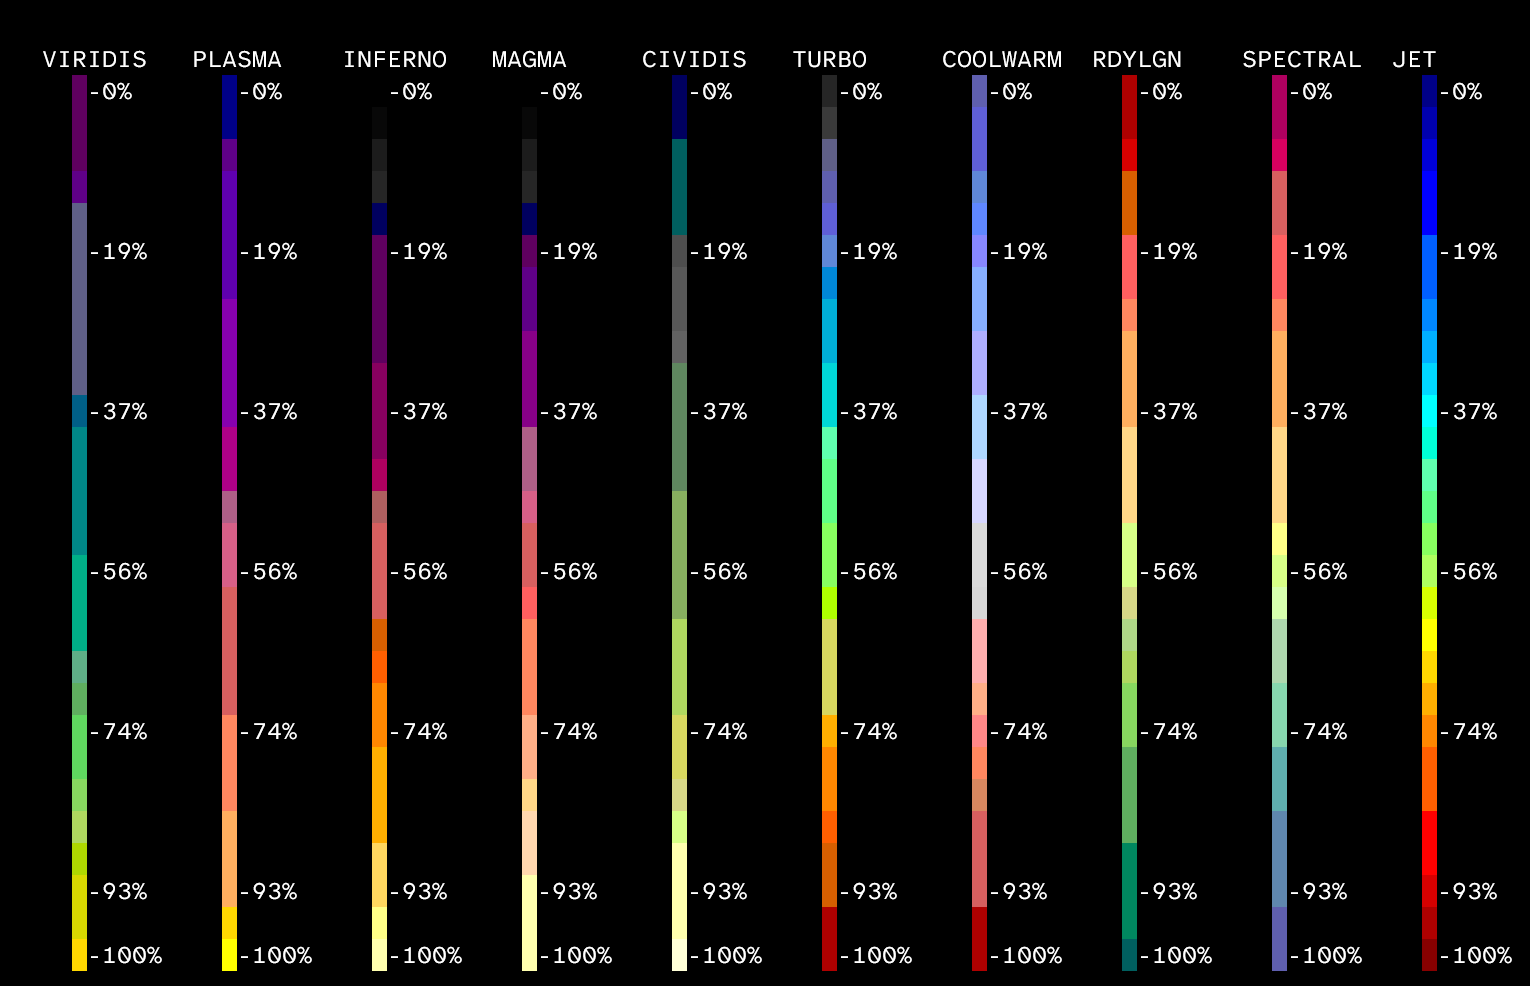
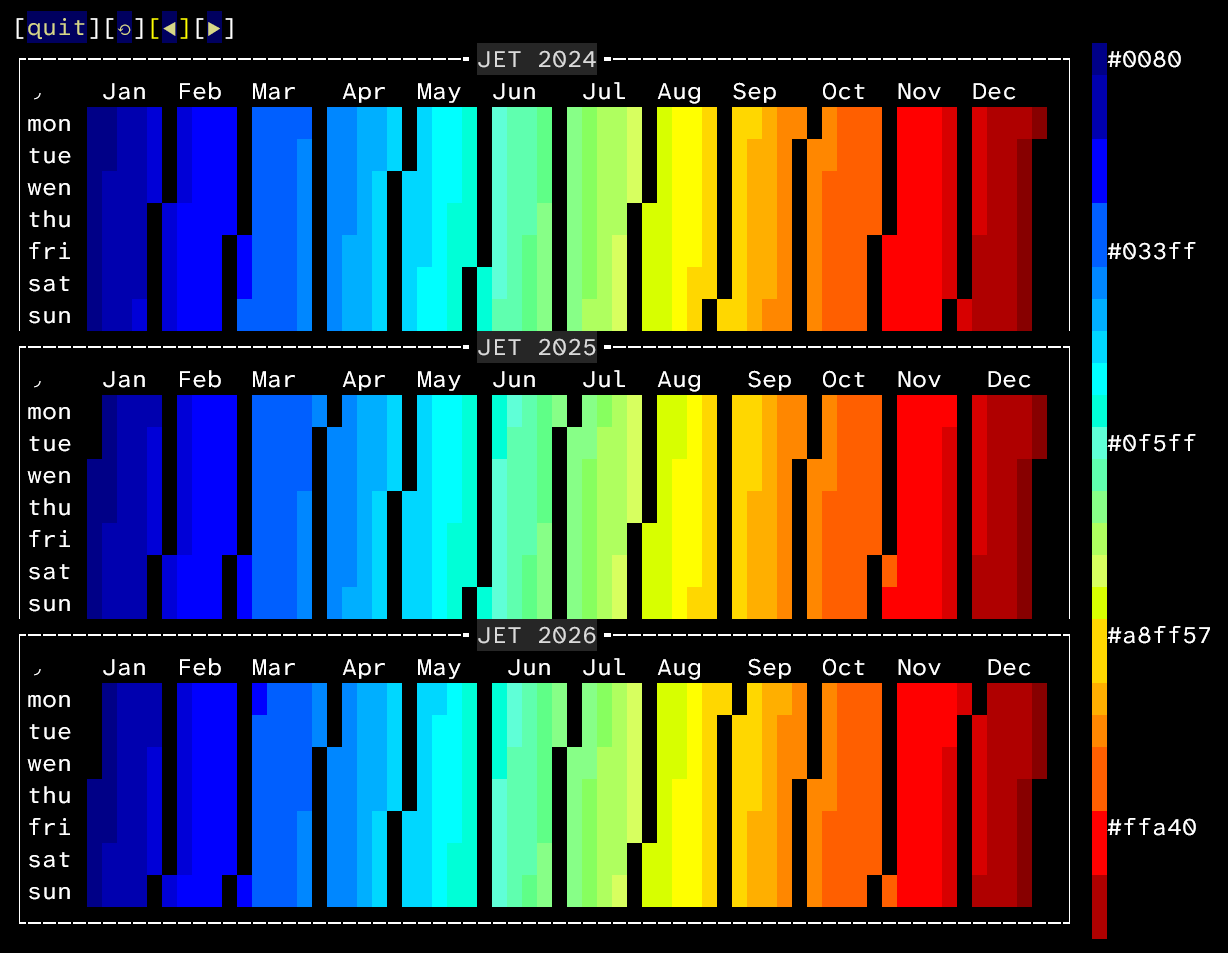
update readme with up to date demo screenshots

diff --git a/README.md b/README.md
@@ -207,8 +207,6 @@ uv run demos/rainbow.py
 uv run demos/color_bars.py
 ```
 
-## ![Rainbow calendar demo](https://github.com/meteofrance/calendardataviz/blob/main/demos/rainbow.py)
-![](https://github.com/meteofrance/calendardataviz/blob/main/doc/images/demo_rainbow.png?raw=true)
 
 ## ![Default color bars demo](https://github.com/meteofrance/calendardataviz/blob/main/demos/color_bars.py)
 ![](https://github.com/meteofrance/calendardataviz/blob/main/doc/images/demo_color_bars.png?raw=true)
